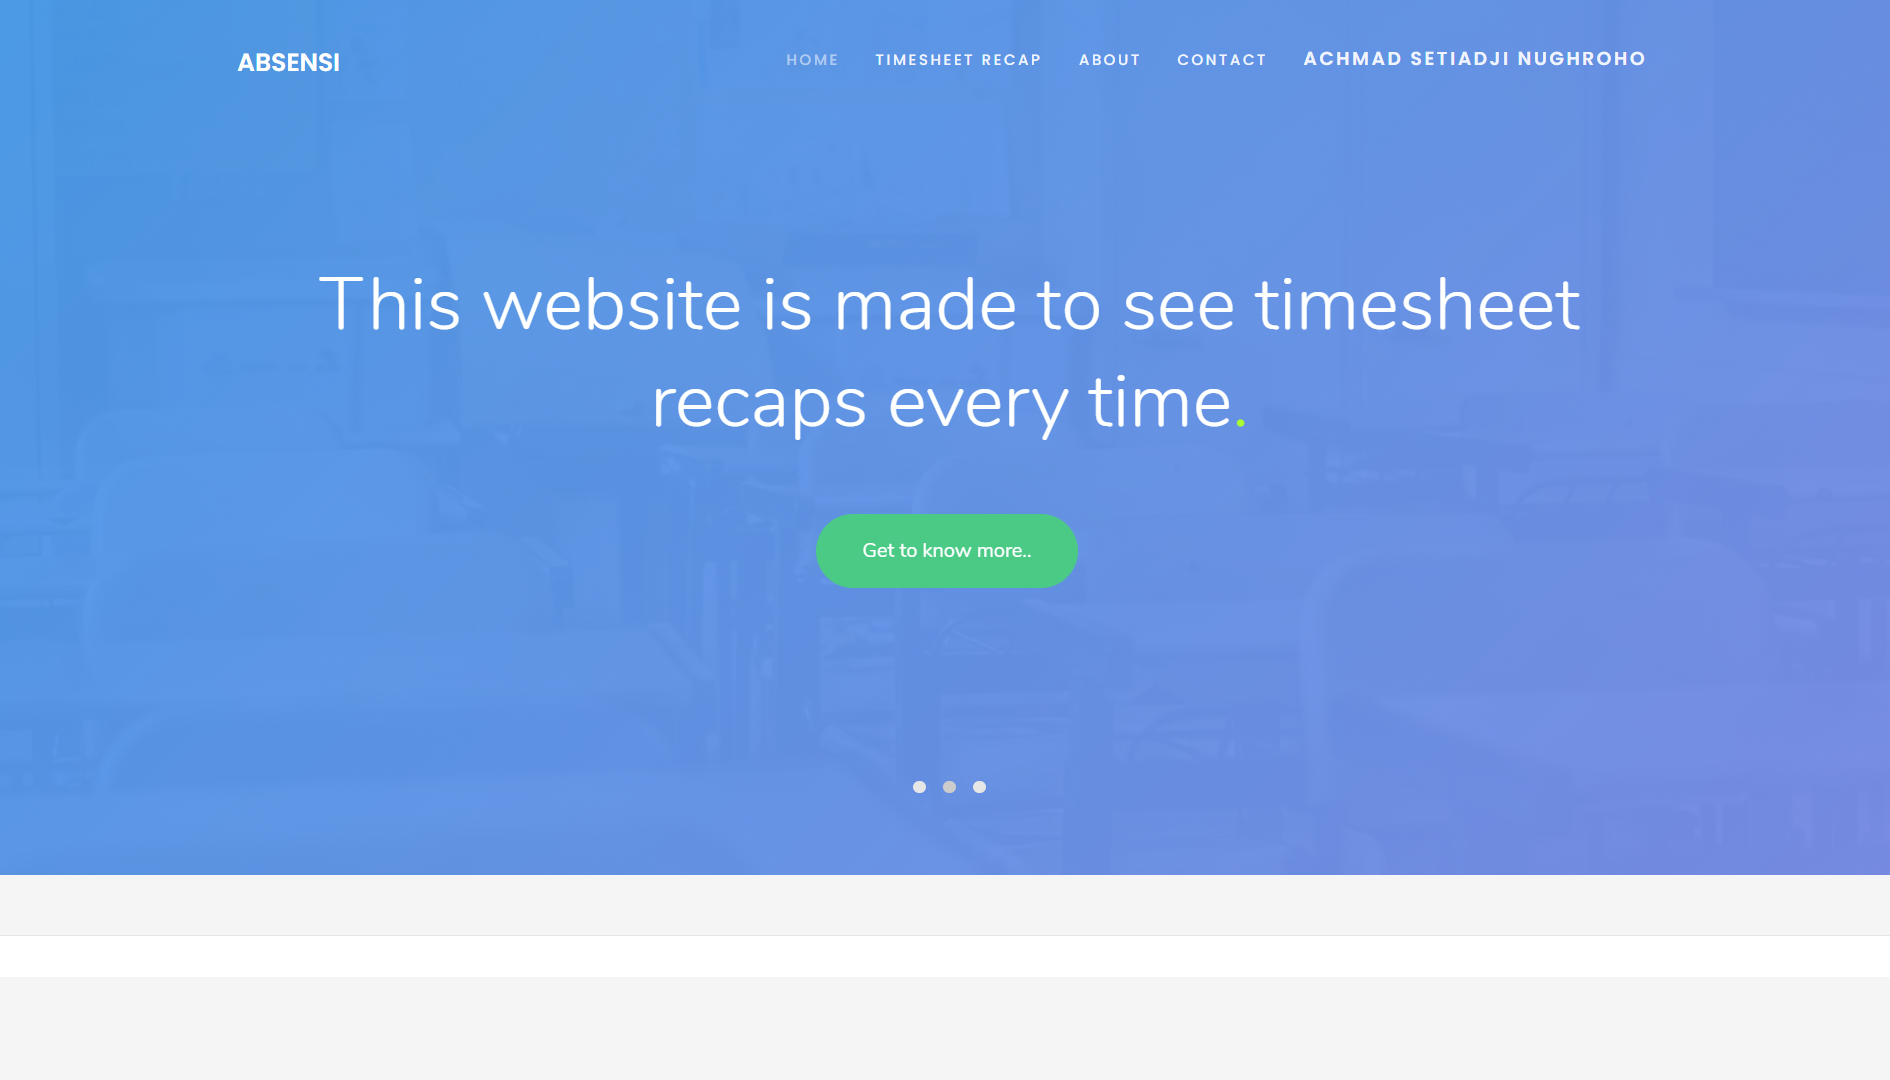
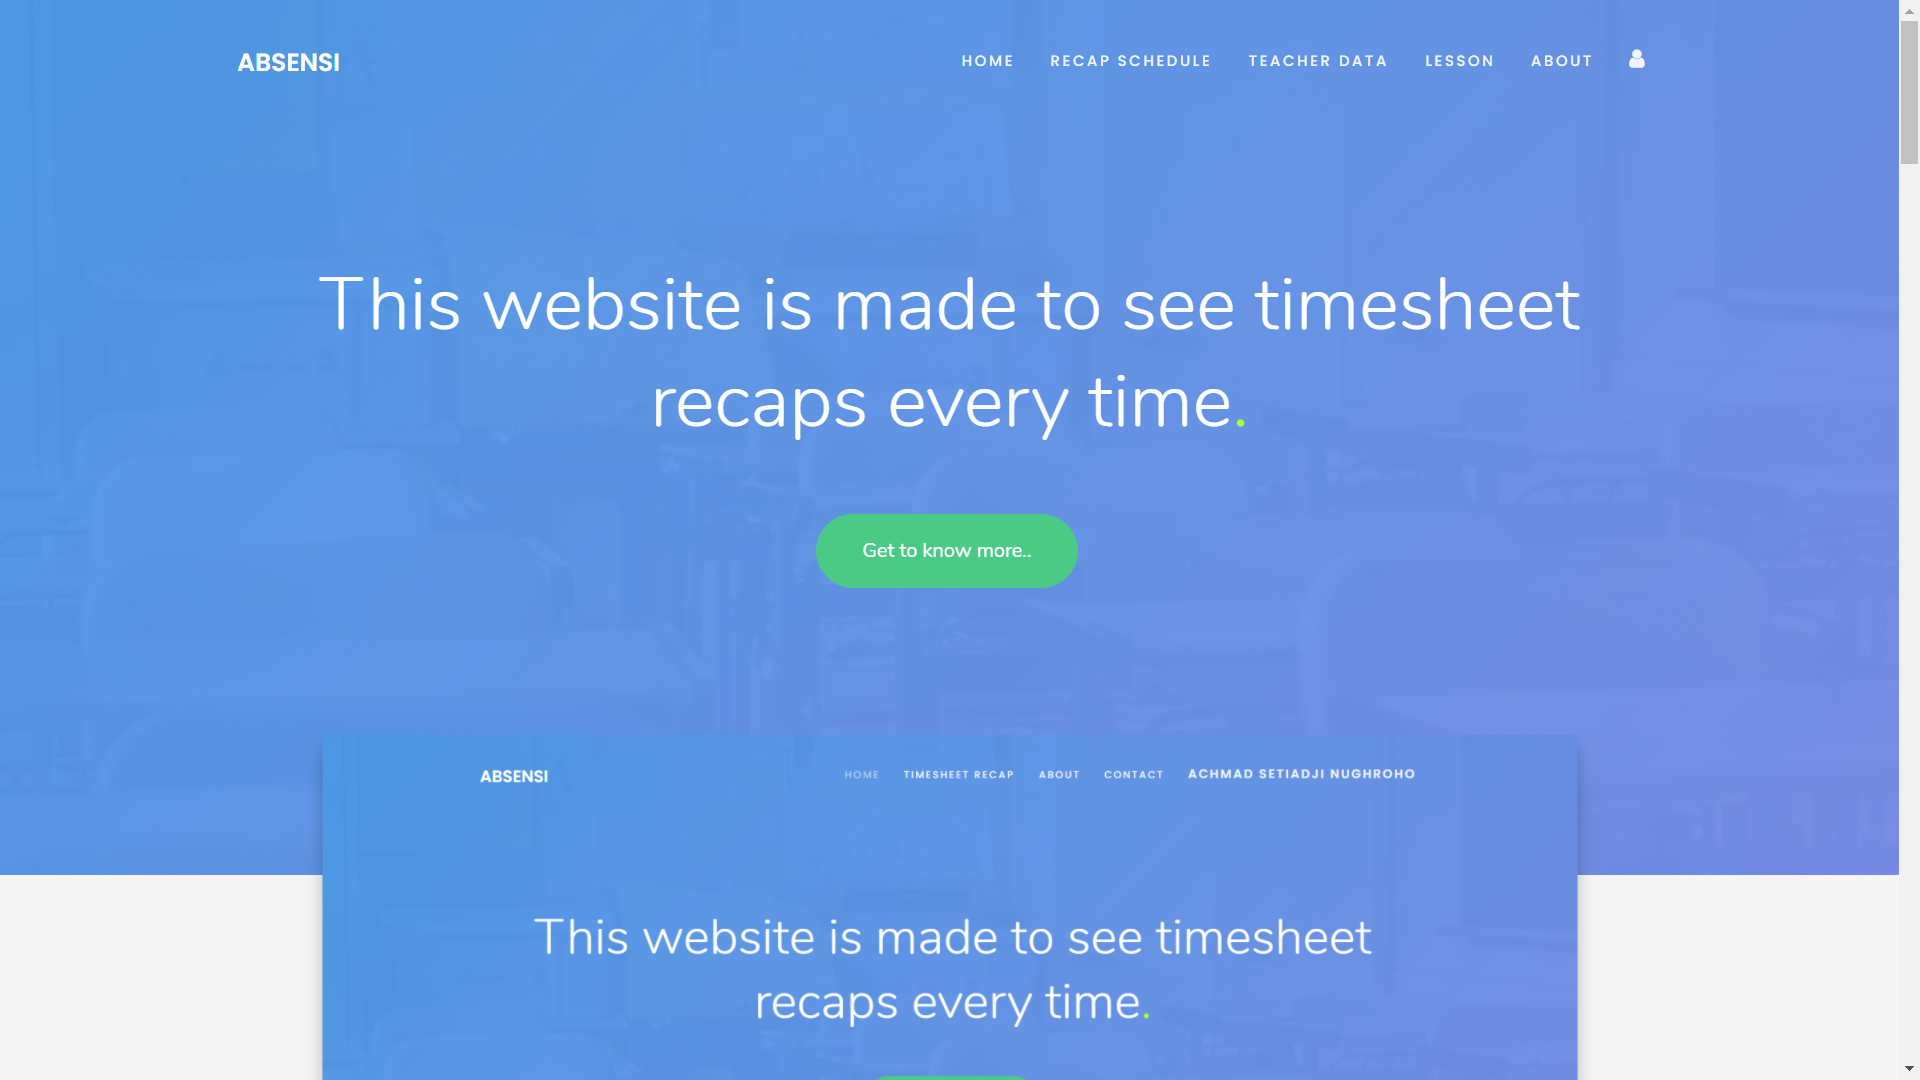
complete CRUD using AJAX & SWALL in Today Schedule

diff --git a/public/js/getdata.js b/public/js/getdata.js
@@ -58,11 +58,94 @@ jQuery(document).ready(function () {
                 success: function () {
                     swal({
                         type: 'success',
-                        title: 'Tambah Barang',
-                        text: 'Anda Berhasil Menambah Barang'
+                        title: 'Tambah Absen',
+                        text: 'Anda Berhasil Menambah Absen'
                     });
                     $('#formtambah')[0].reset();
                     $('#addModal').modal('hide');
+                    dataabsen.ajax.reload(null, false);
+                },
+            });
+        } else {
+            Swal.fire({
+                type: 'error',
+                title: 'Oops...',
+                text: 'Bother fields are required!',
+            });
+        }
+    });
+
+    // function get id
+    $(document).on('click', '.editbtn', function () {
+        var id = $(this).attr("id");
+        $.ajax({
+            url: "/getidabsen",
+            type: "post",
+            data: {
+                id: id
+            },
+            dataType: "JSON",
+            success: function (data) {
+                $('#editModal').modal('show');
+                $('#tanggalpelajaran').val(data.tanggal);
+                $('#jampelajaran').val(data.jam_pembelajaran);
+                $('#kelas').val(data.kelas);
+                $('#gurupengajar').val(data.guru_pengajar);
+                $('#matapelajaran').val(data.mata_pelajaran);
+                $('#materipelajaran').val(data.materi_pelajaran);
+                $('#linkpembelajaran').val(data.link_pembelajaran);
+                $('#keterangan').val(data.keterangan);
+                $('#id').val(id);
+                $('#dokumentasi').html(data.dokumentasi);
+            },
+            error: function (xhr, ajaxOptions, thrownError) {
+                console.log(xhr.responseText);
+            }
+        });
+    });
+
+    // function edit
+    $(document).on('submit', '#formedit', function (event) {
+        event.preventDefault();
+        var tanggalpelajaran = $('#tanggalpelajaran').val();
+        var jampelajaran = $('#jampelajaran').val();
+        var kelas = $('#kelas').val();
+        var gurupengajar = $('#gurupengajar').val();
+        var matapelajaran = $('#matapelajaran').val();
+        var materipelajaran = $('#materipelajaran').val();
+        var linkpembelajaran = $('#linkpembelajaran').val();
+        var extension = $('#image').val().split('.').pop().toLowerCase();
+        var keterangan = $('#keterangan').val();
+        if (jQuery.inArray(extension, ['gif', 'png', 'jpg', 'jpeg']) == -1) {
+            alert("Invalid Image");
+            $('#user_image').val('');
+            return false;
+        }
+
+        if (tanggalpelajaran != '' && jampelajaran != '' && kelas != '' && gurupengajar != '' && matapelajaran != '' && materipelajaran != '' && linkpembelajaran != '' && keterangan != '') {
+            $.ajax({
+                type: "post",
+                url: "/editabsen",
+                beforeSend: function () {
+                    swal({
+                        title: 'Menunggu',
+                        html: 'Memproses data',
+                        onOpen: () => {
+                            swal.showLoading();
+                        }
+                    });
+                },
+                data: new FormData(this),
+                contentType: false,
+                processData: false,
+                success: function () {
+                    swal({
+                        type: 'success',
+                        title: 'Edit Absen',
+                        text: 'Anda Berhasil Mengedit Absen'
+                    });
+                    $('#formedit')[0].reset();
+                    $('#editModal').modal('hide');
                     dataabsen.ajax.reload(null, false);
                 },
             });

diff --git a/resources/views/parcial/foot.blade.php b/resources/views/parcial/foot.blade.php
@@ -1,7 +1,7 @@
 <footer id="colorlib-footer">
     <div class="container">
         <div class="row row-pb-md">
-            <div class="col-md-3 colorlib-widget">
+            <div class="col-md-3 colorlib-widget" style="margin-right: 10%; margin-left: 10%;">
                 <h4>About {{ config('app.name', 'Laravel') }}</h4>
                 <p>Far from the countries Vokalia and Consonantia, there live the blind texts. Separated they
                     live in Bookmarksgrove right at the coast of the Semantics</p>
@@ -16,50 +16,31 @@
             </div>
             <div class="col-md-3 colorlib-widget">
                 <h4>Information</h4>
+                @guest
+                <p>
+                    <ul class="colorlib-footer-links">
+                        <li><a href="{{ url('/') }}"><i class="icon-check"></i> Home</a></li>
+                        <li><a href="{{ url('/about') }}"><i class="icon-check"></i> About</a></li>
+                    </ul>
+                </p>
+                @else
                 <p>
                     <ul class="colorlib-footer-links">
                         <li><a href="#"><i class="icon-check"></i> Home</a></li>
-                        <li><a href="#"><i class="icon-check"></i> Gallery</a></li>
+                        <li><a href="#"><i class="icon-check"></i> Last Schedule</a></li>
+                        <li><a href="#"><i class="icon-check"></i> Today Schedule</a></li>
+                        <li><a href="#"><i class="icon-check"></i> Teacher Data</a></li>
+                        <li><a href="#"><i class="icon-check"></i> Lesson</a></li>
                         <li><a href="#"><i class="icon-check"></i> About</a></li>
-                        <li><a href="#"><i class="icon-check"></i> Blog</a></li>
-                        <li><a href="#"><i class="icon-check"></i> Contact</a></li>
-                        <li><a href="#"><i class="icon-check"></i> Privacy</a></li>
                     </ul>
                 </p>
-            </div>
-
-            <div class="col-md-3 colorlib-widget">
-                <h4>Recent Blog</h4>
-                <div class="f-blog">
-                    <a href="blog.html" class="blog-img" style="background-image: url(images/blog-1.jpg);">
-                    </a>
-                    <div class="desc">
-                        <h2><a href="blog.html">Photoshoot Technique</a></h2>
-                        <p class="admin"><span>30 March 2018</span></p>
-                    </div>
-                </div>
-                <div class="f-blog">
-                    <a href="blog.html" class="blog-img" style="background-image: url(images/blog-2.jpg);">
-                    </a>
-                    <div class="desc">
-                        <h2><a href="blog.html">Camera Lens Shoot</a></h2>
-                        <p class="admin"><span>30 March 2018</span></p>
-                    </div>
-                </div>
-                <div class="f-blog">
-                    <a href="blog.html" class="blog-img" style="background-image: url(images/blog-3.jpg);">
-                    </a>
-                    <div class="desc">
-                        <h2><a href="blog.html">Imahe the biggest photography studio</a></h2>
-                        <p class="admin"><span>30 March 2018</span></p>
-                    </div>
-                </div>
+                @endguest
             </div>
 
             <div class="col-md-3 colorlib-widget">
                 <h4>Contact Info</h4>
                 <ul class="colorlib-footer-links">
-                    <li>291 South 21th Street, <br> Suite 721 New York NY 10016</li>
+                    <li>Depok Jawa Barat, <br> SMK TARUNA BHAKTI</li>
                     <li><a href="tel://1234567920"><i class="icon-phone"></i> + 62 812 1351 7643</a></li>
                     <li><a href="mailto:info@yoursite.com"><i class="icon-envelope"></i> farasjibran@gmail.com</a>
                     </li>
@@ -76,9 +57,9 @@
                         <!-- Link back to Colorlib can't be removed. Template is licensed under CC BY 3.0. -->
                         Copyright &copy;<script>
                             document.write(new Date().getFullYear());
-                        </script> All rights reserved | This template is made with <i class="icon-heart" aria-hidden="true"></i> by <a href="https://colorlib.com" target="_blank">Colorlib</a>
-                        <!-- Link back to Colorlib can't be removed. Template is licensed under CC BY 3.0. --><br>
-                        Demo Images: <a href="http://unsplash.co/" target="_blank">Unsplash</a>, <a href="http://pexels.com/" target="_blank">Pexels</a>
+                        </script> All rights reserved | This website is made with <i class="icon-heart" aria-hidden="true"></i> by <a href="https://colorlib.com" target="_blank">Us</a>
+                        <!-- Link back to Colorlib can't be removed. Template is licensed under CC BY 3.0.<br>
+                        Demo Images: <a href="http://unsplash.co/" target="_blank">Unsplash</a>, <a href="http://pexels.com/" target="_blank">Pexels</a> -->
                     </p>
                 </div>
             </div>

diff --git a/resources/views/home/todayschedule.blade.php b/resources/views/home/todayschedule.blade.php
@@ -154,4 +154,63 @@
     </div>
 </div>
 
+<!-- Edit Modal -->
+<div class="modal fade" id="editModal" tabindex="-1" role="dialog" aria-labelledby="exampleModalLabel" aria-hidden="true">
+    <div class="modal-dialog" role="document">
+        <div class="modal-content">
+            <form id="formedit" method="post">
+                @csrf
+                <div class="modal-body">
+                    <div class="form-group">
+                        <label>Thumbnail</label>
+                        <span id="dokumentasi"></span>
+                    </div>
+                    <div class="form-group">
+                        <label>Tanggal Pelajaran</label>
+                        <input type="Date" name="tanggalpelajaran" id="tanggalpelajaran" class="form-control">
+                    </div>
+                    <div class=" form-group">
+                        <label>Jam Pelajaran</label>
+                        <input type="time" name="jampelajaran" id="jampelajaran" class="form-control">
+                    </div>
+                    <div class="form-group">
+                        <label>Kelas</label>
+                        <input type="text" name="kelas" id="kelas" class="form-control" placeholder="Enter Grade Of Class">
+                    </div>
+                    <div class="form-group">
+                        <label>Guru Pengajar</label>
+                        <input type="text" name="gurupengajar" id="gurupengajar" class="form-control" placeholder="Enter Name Of Teacher">
+                    </div>
+                    <div class="form-group">
+                        <label>Mata Pelajaran</label>
+                        <input type="text" name="matapelajaran" id="matapelajaran" class="form-control" placeholder="Enter Lesson">
+                    </div>
+                    <div class="form-group">
+                        <label>Materi Pelajaran</label>
+                        <input type="text" name="materipelajaran" id="materipelajaran" class="form-control" placeholder="Enter learning materials">
+                    </div>
+                    <div class="form-group">
+                        <label>Link Pembelajaran</label>
+                        <input type="text" name="linkpembelajaran" id="linkpembelajaran" class="form-control" placeholder="Enter The Link">
+                    </div>
+                    <div class="form-group">
+                        <label>Dokumentasi</label>
+                        <input type="file" name="dokumentasi" id="image" class="form-control">
+                    </div>
+                    <div class="form-group">
+                        <label>Keterangan</label>
+                        <textarea type="text" name="keterangan" id="keterangan" class="form-control" placeholder="Enter The Information"></textarea>
+                    </div>
+                </div>
+                <div class="modal-footer">
+                    <button type="button" class="btn btn-secondary" data-dismiss="modal">Cancel</button>
+                    <input type="hidden" name="id" id="id" class="btn btn-success" value="" />
+                    <input type="hidden" name="action" class="btn btn-success" value="Edit" />
+                    <input type="submit" value="Edit" name="action" class="btn btn-success" />
+                </div>
+            </form>
+        </div>
+    </div>
+</div>
+
 @endsection

diff --git a/app/Http/Controllers/HomeController.php b/app/Http/Controllers/HomeController.php
@@ -65,7 +65,7 @@ class HomeController extends Controller
             $img = "<img style='width: 80%;' src='storage/" . $value['dokumentasi'] . "' >";
             $tbody[] = $img;
             $tbody[] = $value['keterangan'];
-            $btn = "<button type='button' class='btn btn-primary btn-icon-split editbtn' name='editbtn' data-toggle='modal' id=" . $value['id'] . " 	style='padding-right: 6%; width: 95%'>
+            $btn = "<button type='button' class='btn btn-icon-split editbtn' name='editbtn' data-toggle='modal' id=" . $value['id'] . " 	style='padding-right: 6%; width: 95%; background-color: blue; color: white'>
                           <span class='icon text-white'>
                               <i class='fa fa-edit'></i>
                           </span>
@@ -108,10 +108,54 @@ class HomeController extends Controller
         }
     }
 
+    // function edit
+    public function editData(Request $request)
+    {
+        if ($_POST["action"] == "Edit") {
+            $imageName = 'absens/November2020' . $request->dokumentasi->getClientOriginalName();
+            $request->dokumentasi->move(public_path('storage/absens'), $imageName);
+            $idabsen = $request->id;
+            $absen = Absen::find($idabsen);
+            $absen->tanggal = $request->tanggalpelajaran;
+            $absen->jam_pembelajaran = $request->jampelajaran;
+            $absen->kelas = $request->kelas;
+            $absen->guru_pengajar = $request->gurupengajar;
+            $absen->mata_pelajaran = $request->matapelajaran;
+            $absen->materi_pelajaran = $request->materipelajaran;
+            $absen->link_pembelajaran = $request->linkpembelajaran;
+            $absen->dokumentasi = $imageName;
+            $absen->keterangan = $request->keterangan;
+            $absen->save();
+            echo 'Data Updated';
+        }
+    }
+
     // function delete
     public function deleteData()
     {
         $absen = Absen::find($_POST['id']);
         $absen->delete();
+    }
+
+    // function get id goods
+    public function getIdAbsen()
+    {
+        $output = array();
+        $data = Absen::find($_POST["id"]);
+        $output['tanggal'] = $data->tanggal;
+        $output['jam_pembelajaran'] = $data->jam_pembelajaran;
+        $output['kelas'] = $data->kelas;
+        $output['guru_pengajar'] = $data->guru_pengajar;
+        $output['mata_pelajaran'] = $data->mata_pelajaran;
+        $output['materi_pelajaran'] = $data->materi_pelajaran;
+        $output['link_pembelajaran'] = $data->link_pembelajaran;
+        $output['keterangan'] = $data->keterangan;
+        if ($data->dokumentasi != '') {
+            $output['dokumentasi'] = '<img style="width: 100%;" src="storage/' . $data->dokumentasi . '" /><input type="hidden" name="hidden_barang_image" value="' . $data->dokumentasi . '"/>';
+        } else {
+            $output['dokumentasi'] = '<input type="hidden" name="hidden_barang_image" value=""/>';
+        }
+
+        echo json_encode($output);
     }
 }

diff --git a/resources/views/home/home.blade.php b/resources/views/home/home.blade.php
@@ -33,14 +33,14 @@
                 <div class="item">
                     <div class="col-md-8 col-md-offset-2">
                         <div class="featured-entry">
-                            <img class="img-responsive" src="{{ asset('asset/bg1.png')}}" alt="">
+                            <img class="img-responsive" src="{{ asset('asset/bg2.png')}}" alt="">
                         </div>
                     </div>
                 </div>
                 <div class="item">
                     <div class="col-md-8 col-md-offset-2">
                         <div class="featured-entry">
-                            <img class="img-responsive" src="{{ asset('asset/bg1.png')}}" alt="">
+                            <img class="img-responsive" src="{{ asset('asset/bg3.png')}}" alt="">
                         </div>
                     </div>
                 </div>

diff --git a/routes/web.php b/routes/web.php
@@ -33,3 +33,5 @@ Route::get('/todayschedule', 'HomeController@todaySchedule')->name('todayschedul
 Route::get('/getabsen', 'HomeController@dataAbsen');
 Route::post('/addabsen', 'HomeController@addData');
 Route::post('/deleteabsen', 'HomeController@deleteData');
+Route::post('/getidabsen', 'HomeController@getIdAbsen');
+Route::post('/editabsen', 'HomeController@editData');
